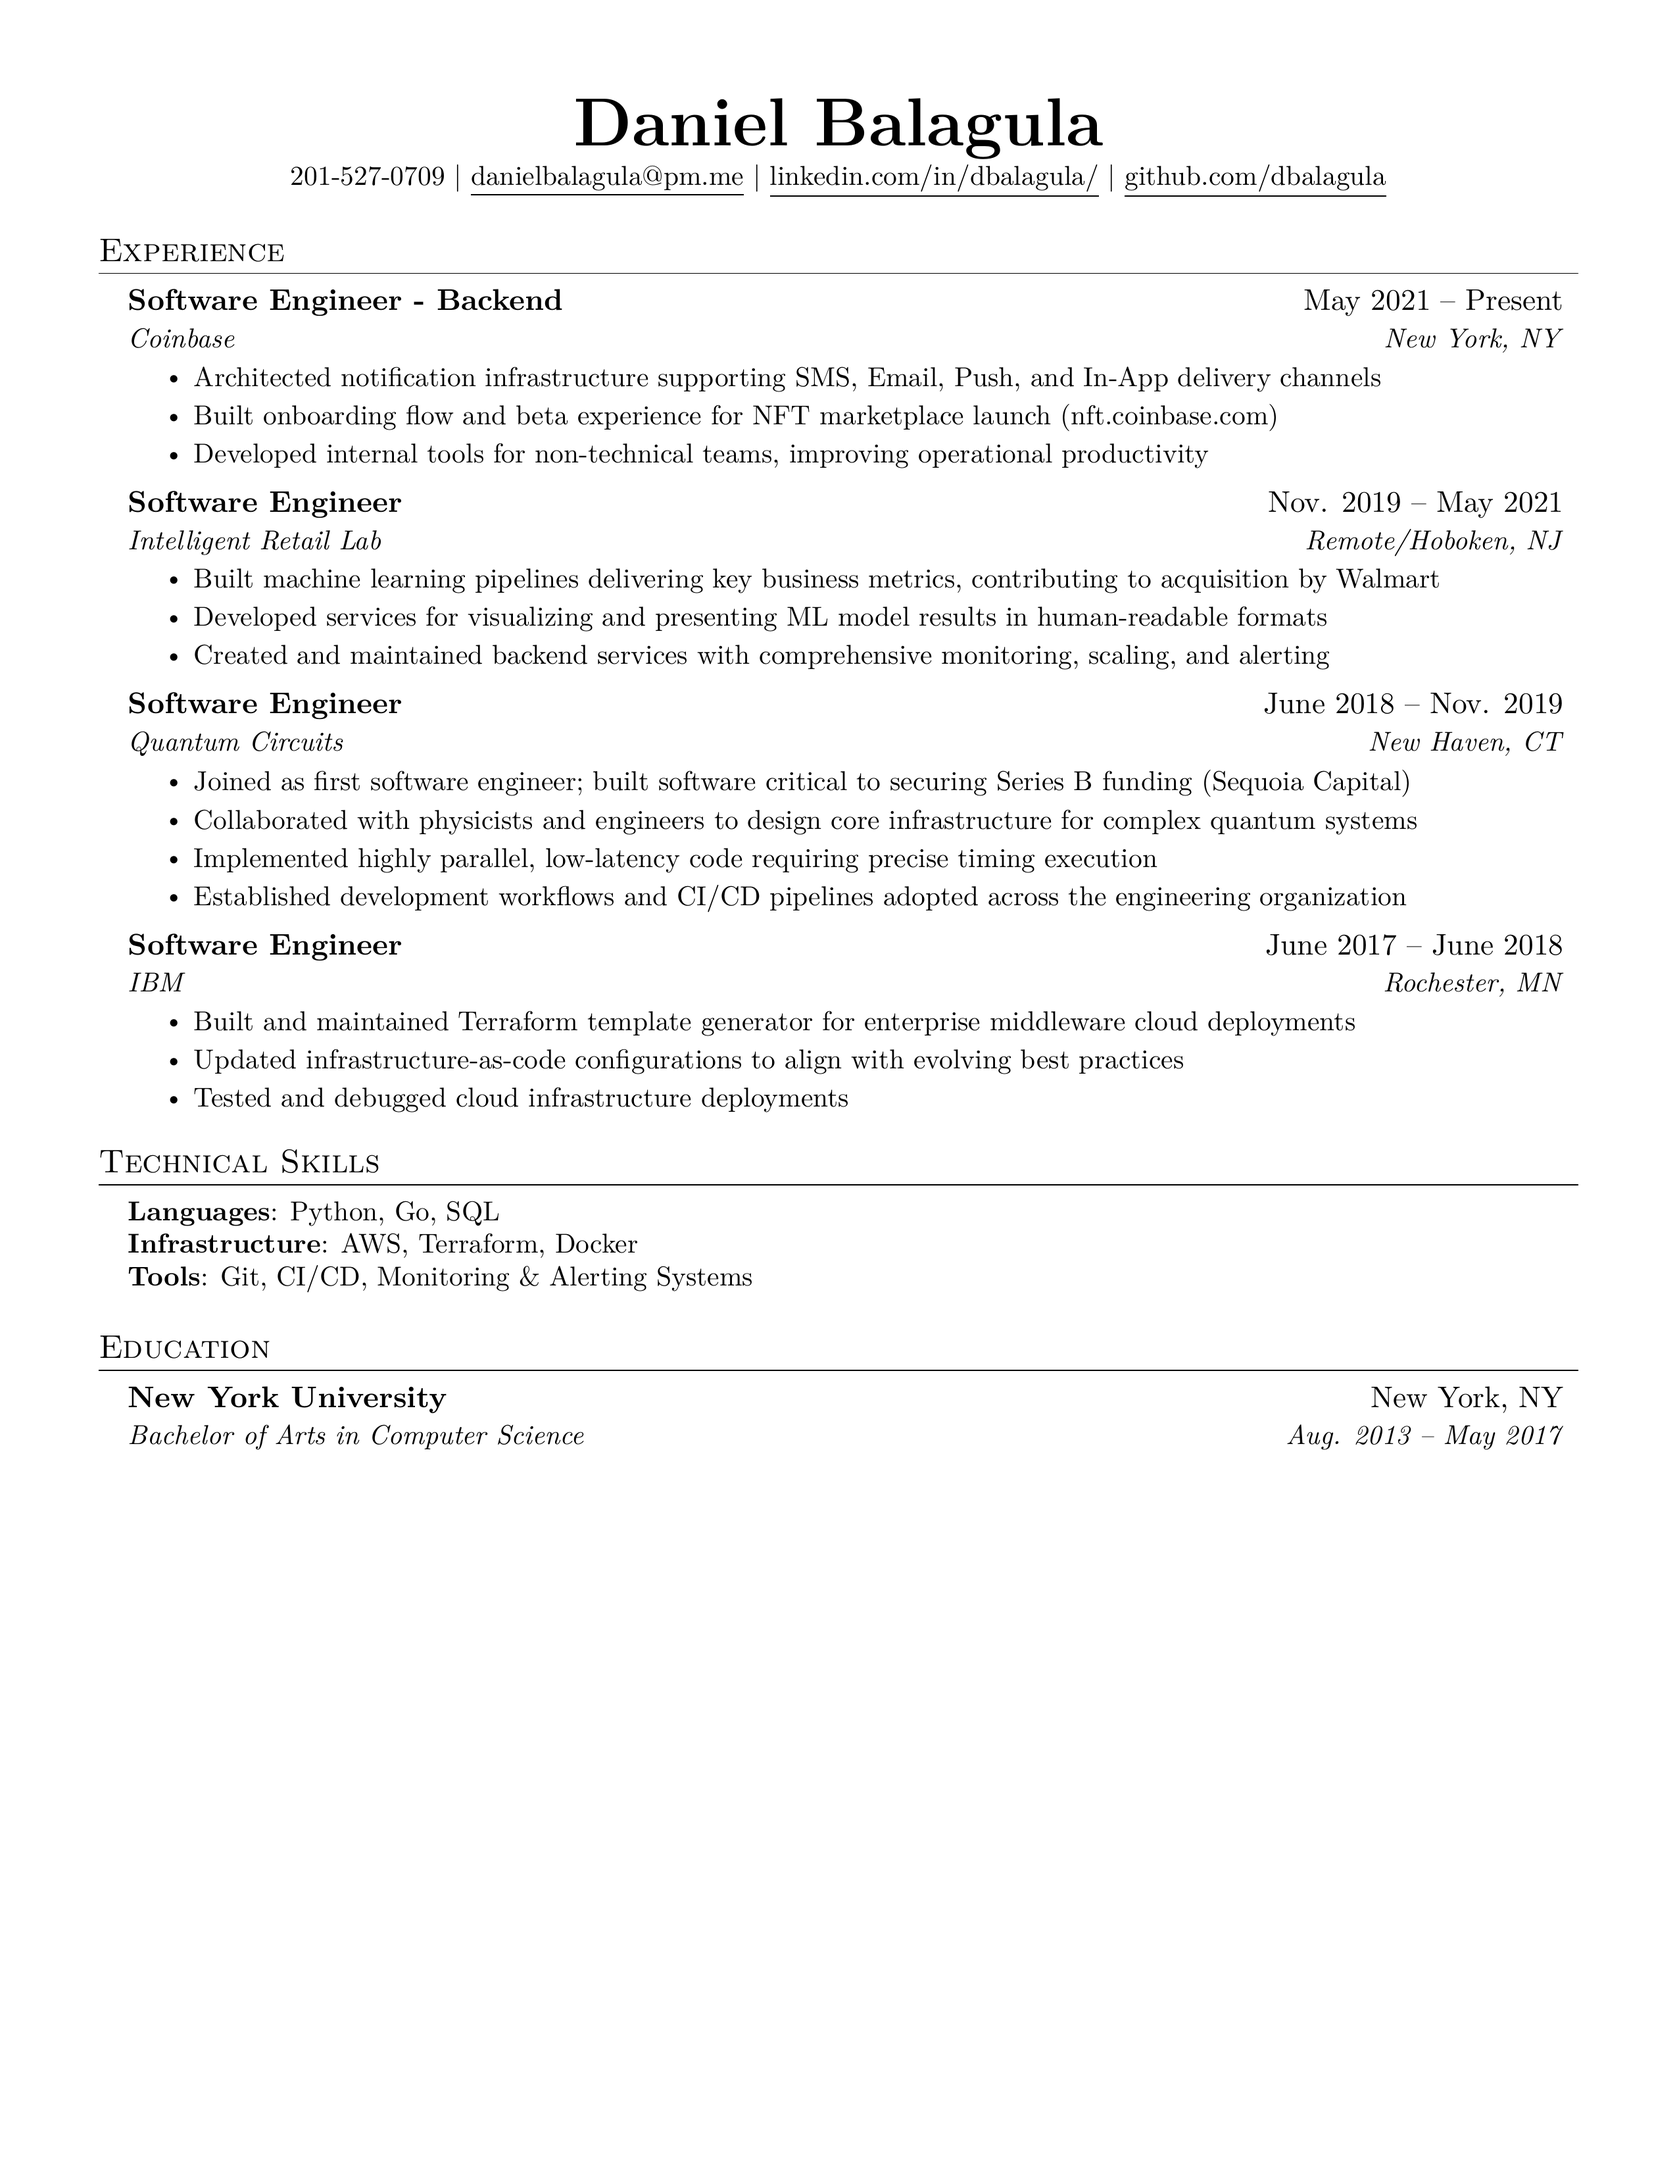
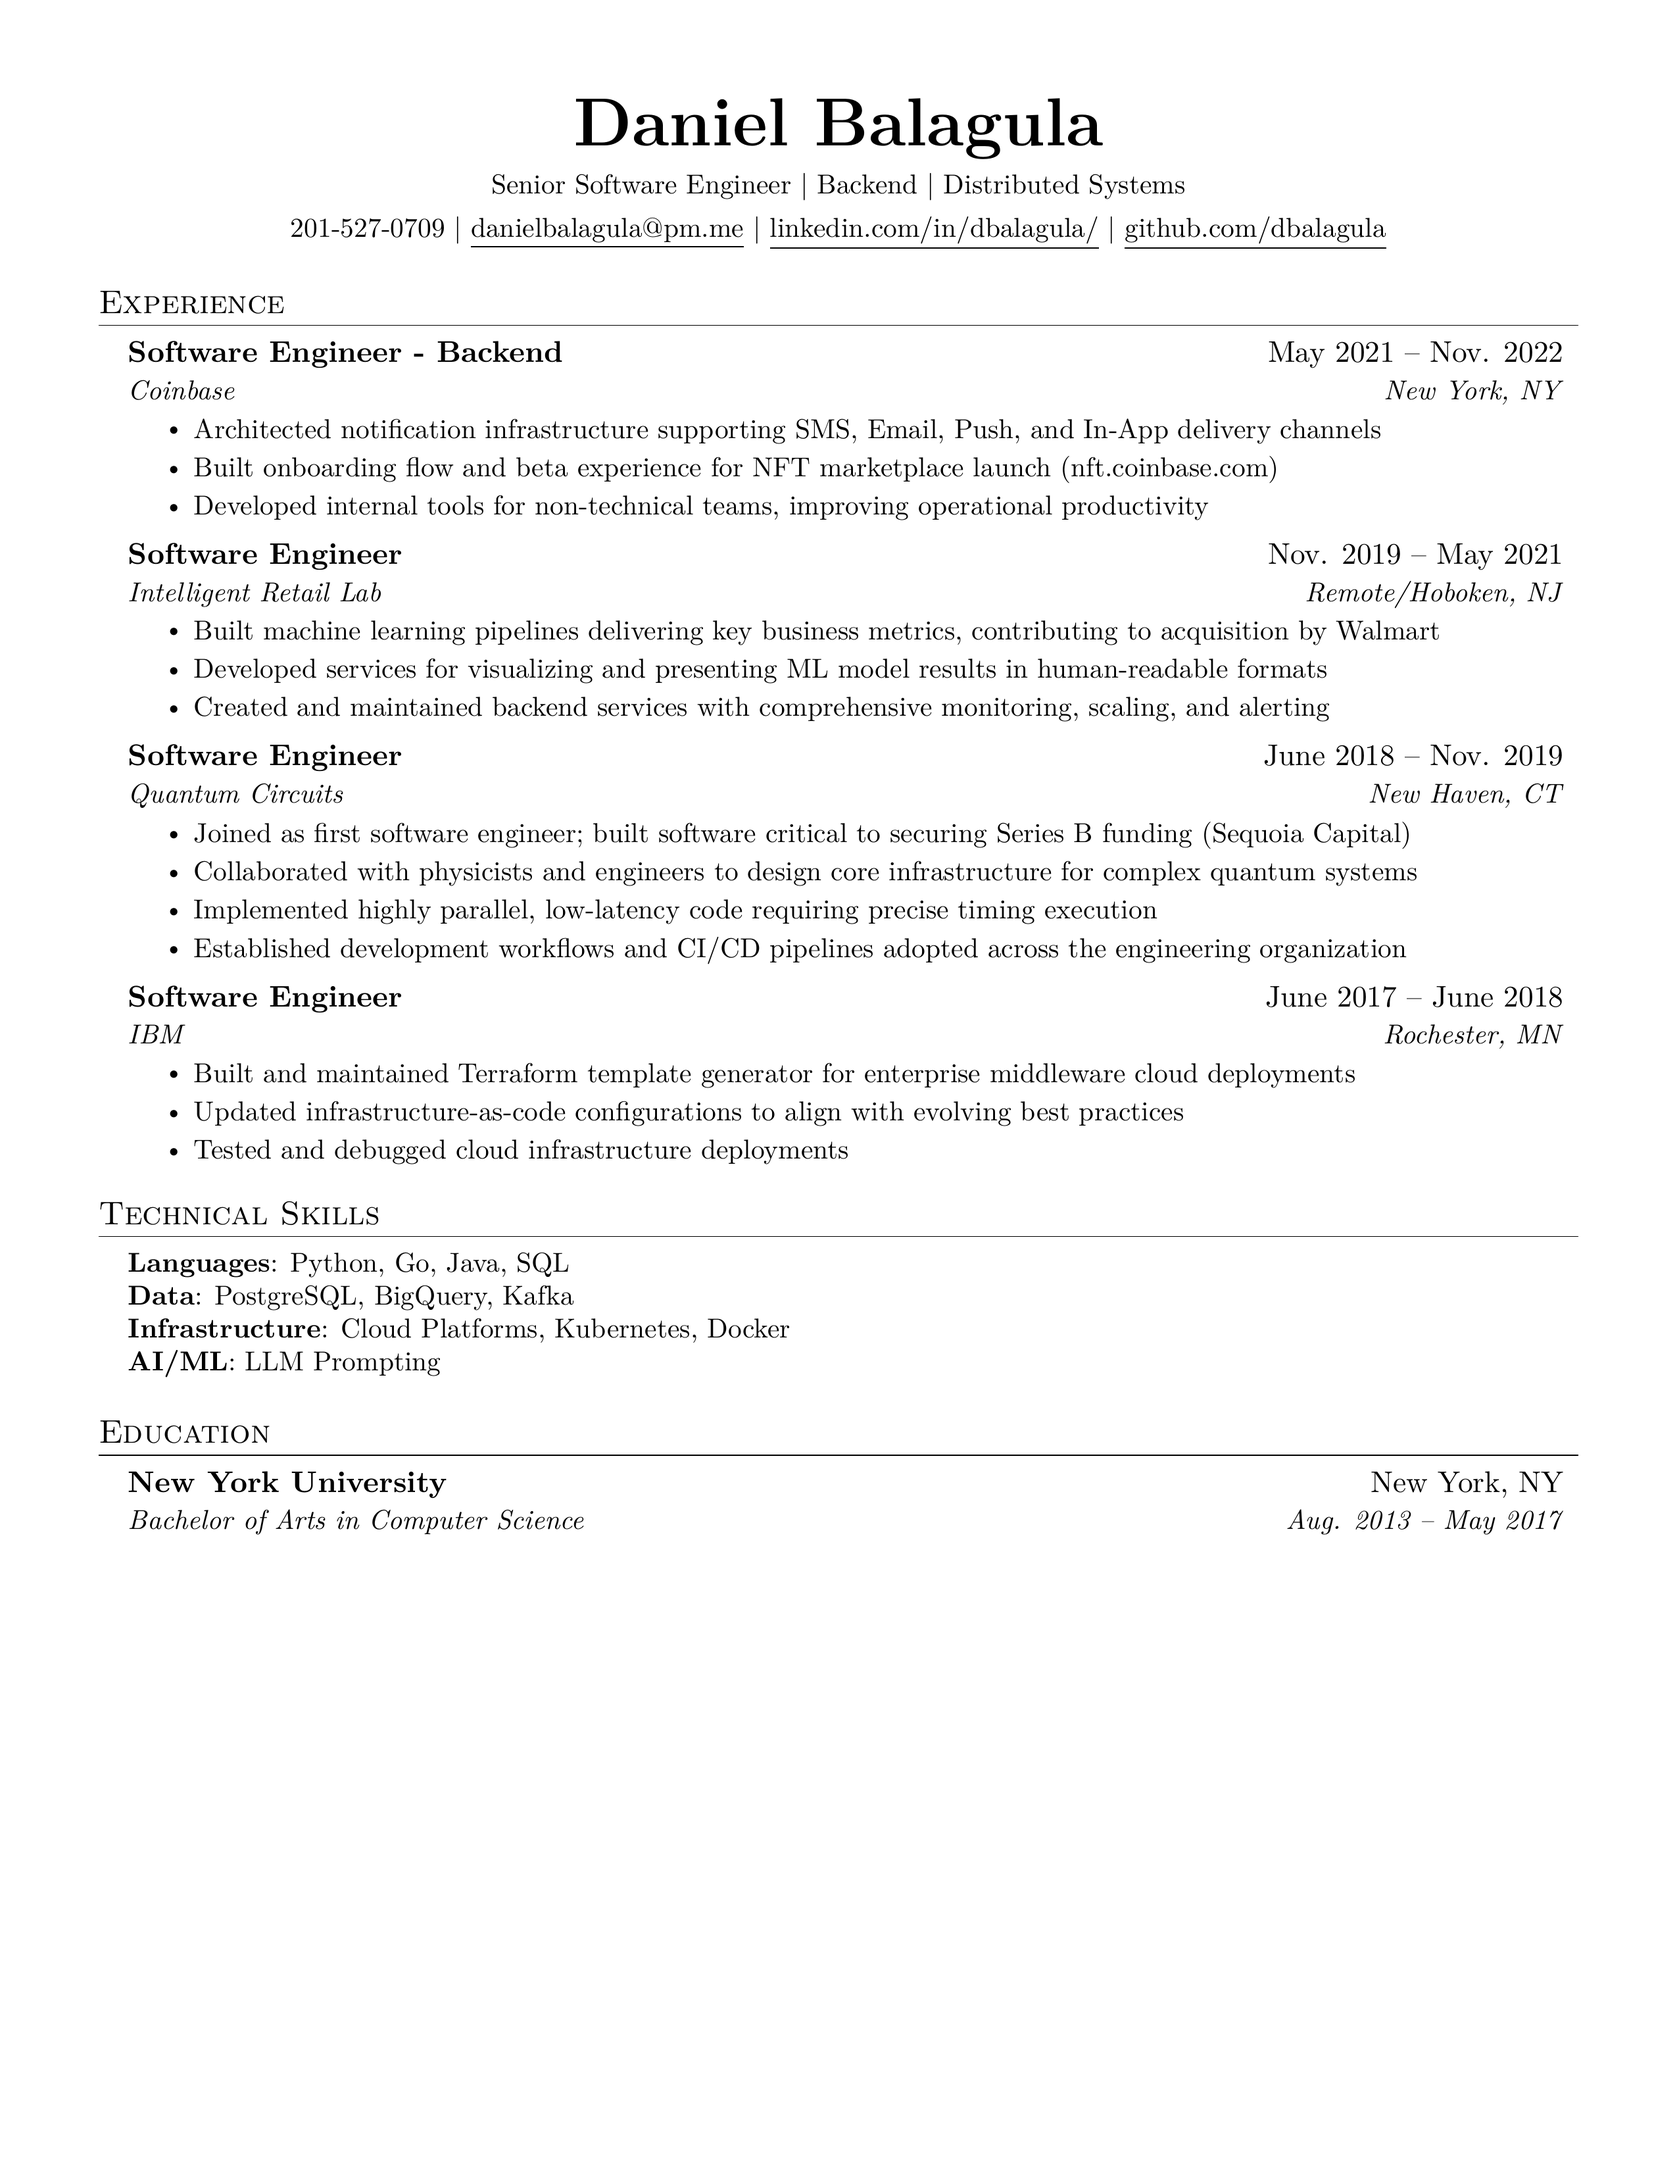
Comprehensive resume cleanup and updates
- Update Coinbase end date to Nov. 2022
- Add tagline: Senior Software Engineer | Backend | Distributed Systems
- Expand Technical Skills: added Java, PostgreSQL, BigQuery, Kafka, Kubernetes, LLM Prompting
- Remove unused packages (marvosym, verbatim)
- Remove unused LaTeX commands (resumeSubSubheading, resumeProjectHeading, resumeSubItem)
- Clean up verbose comments and normalize whitespace

Changed region(s): [[0.062, 0.0624, 0.9294, 0.6867], [0.8055, 0.6555, 0.9294, 0.6867]]

diff --git a/resume.tex b/resume.tex
@@ -10,9 +10,7 @@
 \usepackage{latexsym}
 \usepackage[empty]{fullpage}
 \usepackage{titlesec}
-\usepackage{marvosym}
 \usepackage[usenames,dvipsnames]{color}
-\usepackage{verbatim}
 \usepackage{enumitem}
 \usepackage[hidelinks]{hyperref}
 \usepackage{fancyhdr}
@@ -59,22 +57,6 @@
     \end{tabular*}\vspace{-7pt}
 }
 
-\newcommand{\resumeSubSubheading}[2]{
-    \item
-    \begin{tabular*}{0.97\textwidth}{l@{\extracolsep{\fill}}r}
-      \textit{\small#1} & \textit{\small #2} \\
-    \end{tabular*}\vspace{-7pt}
-}
-
-\newcommand{\resumeProjectHeading}[2]{
-    \item
-    \begin{tabular*}{0.97\textwidth}{l@{\extracolsep{\fill}}r}
-      \small#1 & #2 \\
-    \end{tabular*}\vspace{-7pt}
-}
-
-\newcommand{\resumeSubItem}[1]{\resumeItem{#1}\vspace{-4pt}}
-
 \renewcommand\labelitemii{$\vcenter{\hbox{\tiny$\bullet$}}$}
 
 \newcommand{\resumeSubHeadingListStart}{\begin{itemize}[leftmargin=0.15in, label={}]}
@@ -82,28 +64,21 @@
 \newcommand{\resumeItemListStart}{\begin{itemize}}
 \newcommand{\resumeItemListEnd}{\end{itemize}\vspace{-5pt}}
 
-%-------------------------------------------
-%%%%%%  RESUME STARTS HERE  %%%%%%%%%%%%%%%%%%%%%%%%%%%%
-
-
 \begin{document}
 
-%----------HEADING----------
-
 \begin{center}
-    \textbf{\Huge \scshape Daniel Balagula} \\ \vspace{1pt}
-    \small 201-527-0709 $|$ \href{mailto:danielbalagula@pm.me}{\underline{danielbalagula@pm.me}} $|$ 
+    \textbf{\Huge \scshape Daniel Balagula} \\ \vspace{4pt}
+    \small Senior Software Engineer $|$ Backend $|$ Distributed Systems \\ \vspace{4pt}
+    \small 201-527-0709 $|$ \href{mailto:danielbalagula@pm.me}{\underline{danielbalagula@pm.me}} $|$
     \href{https://linkedin.com/in/dbalagula}{\underline{linkedin.com/in/dbalagula/}} $|$
     \href{https://github.com/dbalagula}{\underline{github.com/dbalagula}}
 \end{center}
 
-
-%-----------EXPERIENCE-----------
 \section{Experience}
   \resumeSubHeadingListStart
 
     \resumeSubheading
-      {Software Engineer - Backend}{May 2021 -- Present}
+      {Software Engineer - Backend}{May 2021 -- Nov. 2022}
       {Coinbase}{New York, NY}
       \resumeItemListStart
         \resumeItem{Architected notification infrastructure supporting SMS, Email, Push, and In-App delivery channels}
@@ -141,19 +116,16 @@
 
   \resumeSubHeadingListEnd
 
-
-%-----------PROGRAMMING SKILLS-----------
 \section{Technical Skills}
  \begin{itemize}[leftmargin=0.15in, label={}]
     \small{\item{
-     \textbf{Languages}{: Python, Go, SQL} \\
-     \textbf{Infrastructure}{: AWS, Terraform, Docker} \\
-     \textbf{Tools}{: Git, CI/CD, Monitoring \& Alerting Systems}
+     \textbf{Languages}{: Python, Go, Java, SQL} \\
+     \textbf{Data}{: PostgreSQL, BigQuery, Kafka} \\
+     \textbf{Infrastructure}{: Cloud Platforms, Kubernetes, Docker} \\
+     \textbf{AI/ML}{: LLM Prompting}
     }}
  \end{itemize}
 
-
-%-----------EDUCATION-----------
 \section{Education}
   \resumeSubHeadingListStart
     \resumeSubheading
@@ -161,5 +133,4 @@
       {Bachelor of Arts in Computer Science}{Aug. 2013 -- May 2017}
   \resumeSubHeadingListEnd
 
-%-------------------------------------------
 \end{document}
